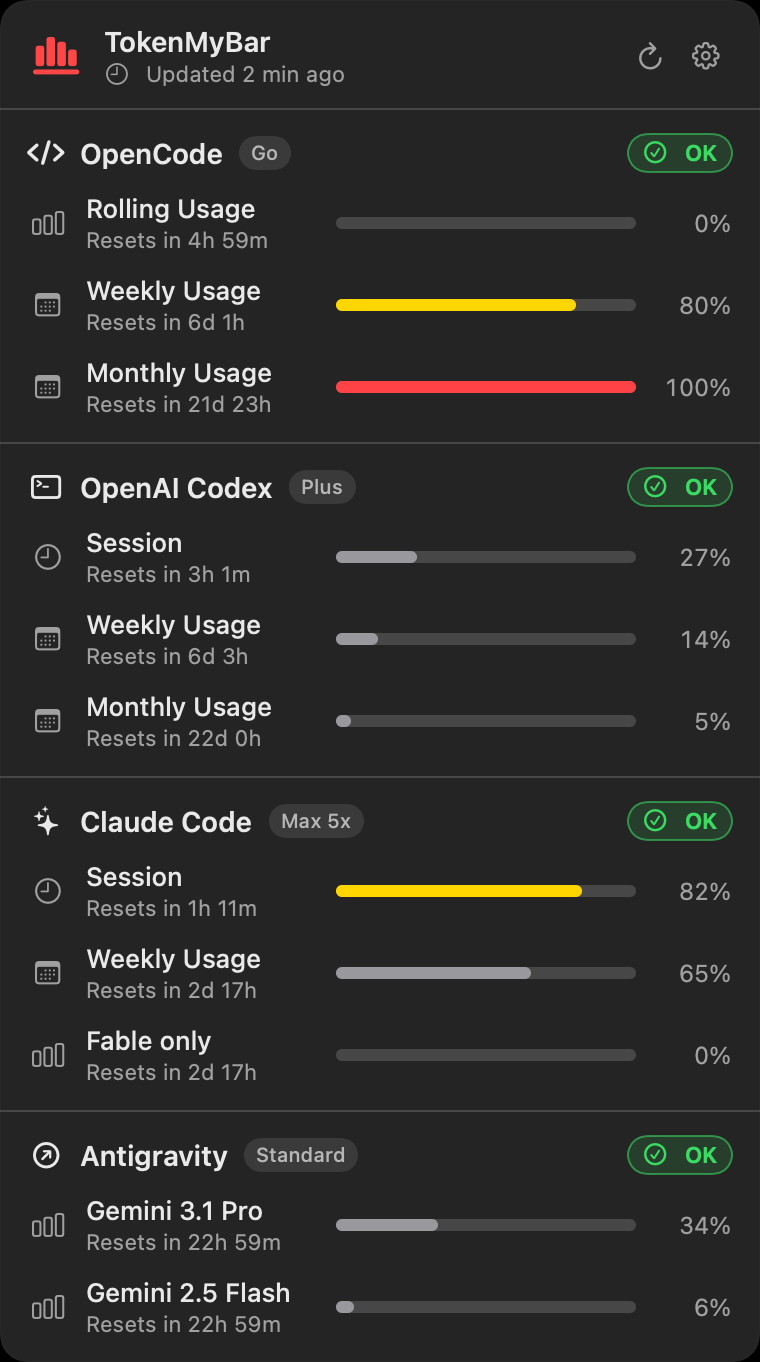
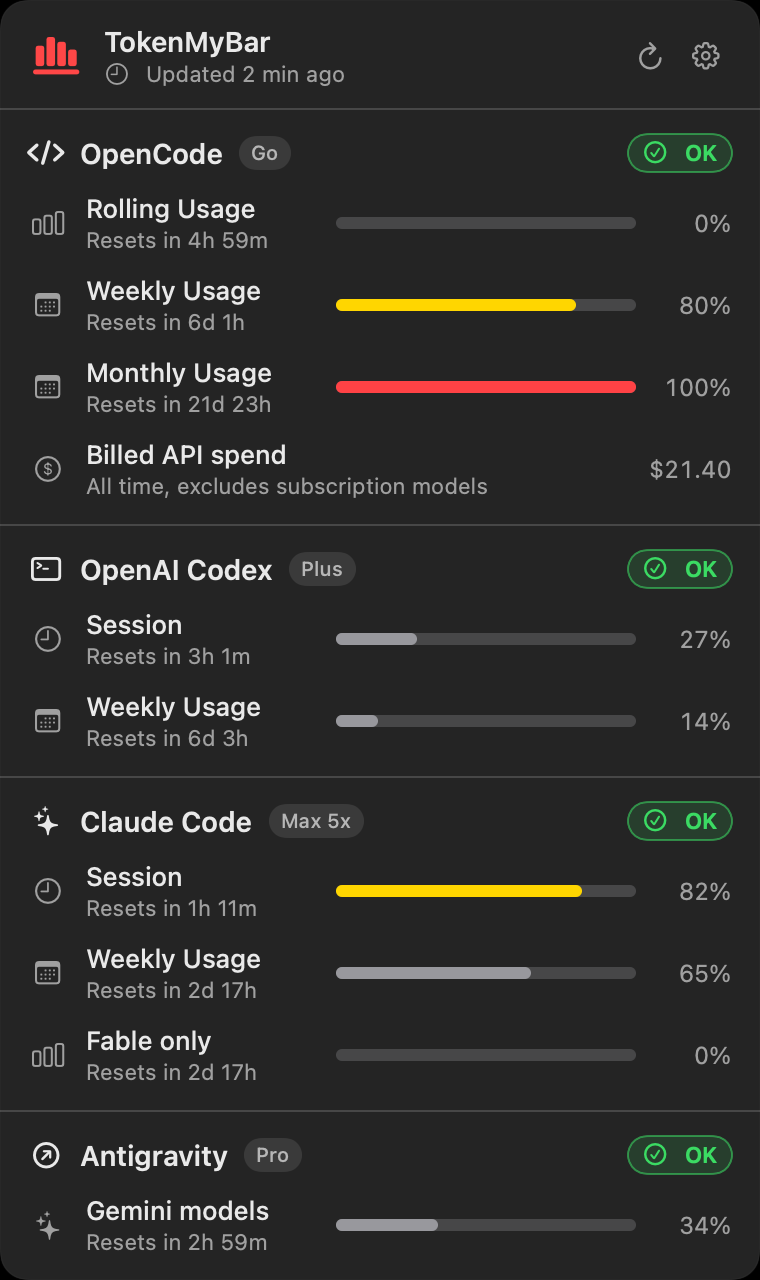
chore: name Antigravity in About, and regenerate the previews from the app
The About panel still described three vendors and the bundle's copyright still
read "coodyapp". Both now match the shipping product.

The landing page's menu bar mock and the README screenshot had drifted a release
behind: Claude appeared as "Pro" with a monthly window it does not report,
Antigravity as per-model rows on a "Standard" tier, and neither showed billed
spend. Both are regenerated from the app's own preview fixture, so what the site
promises is what the app draws — Claude "Max 5x" with its Fable cap, Codex's two
windows, Antigravity's grouped Gemini row on Pro, and OpenCode's spend.

Making that mock faithful surfaced a real display bug: a row carrying a figure
but no percentage drew an empty meter and squeezed its value into a 38pt column,
so "$21.40" rendered as "$21....". Such a row now takes the meter's width for its
value, in both the app and the mock.

diff --git a/apps/www/src/components/menubar-preview.tsx b/apps/www/src/components/menubar-preview.tsx
@@ -22,12 +22,15 @@ import { BorderTrail } from "@/components/core/border-trail"
 // 1pt = 1px: 380px popover, 14px padding, 150×6 bars, 38px percent column.
 
 type Row = {
-  // Antigravity reports one bucket per model instead of fixed windows, so its
-  // rows carry the app's `model-<id>` keys.
-  key: "session" | "weekly" | "monthly" | `model-${string}`
+  // Antigravity meters a whole model group rather than fixed windows, so its
+  // row carries the app's `gemini-group` key.
+  key: "session" | "weekly" | "monthly" | "spend" | "gemini-group"
   title: string
+  // A spend row has a figure but nothing to fill a bar with, so it shows neither
+  // a countdown nor a meter — exactly as PopoverView does.
   reset: string
-  percent: number
+  percent?: number
+  value?: string
 }
 
 type Vendor = { name: string; icon: LucideIcon; plan: string; rows: Row[] }
@@ -56,6 +59,12 @@ const VENDORS: Vendor[] = [
         reset: "Resets in 22d 20h",
         percent: 100,
       },
+      {
+        key: "spend",
+        title: "Billed API spend",
+        reset: "All time, excludes subscription models",
+        value: "$21.40",
+      },
     ],
   },
   {
@@ -75,18 +84,12 @@ const VENDORS: Vendor[] = [
         reset: "Resets in 6d 4h",
         percent: 14,
       },
-      {
-        key: "monthly",
-        title: "Monthly Usage",
-        reset: "Resets in 22d 21h",
-        percent: 5,
-      },
     ],
   },
   {
     name: "Claude Code",
     icon: Sparkles,
-    plan: "Pro",
+    plan: "Max 5x",
     rows: [
       {
         key: "session",
@@ -101,29 +104,23 @@ const VENDORS: Vendor[] = [
         percent: 65,
       },
       {
-        key: "monthly",
-        title: "Monthly Usage",
-        reset: "Resets in 18d 6h",
-        percent: 42,
+        key: "gemini-group",
+        title: "Fable only",
+        reset: "Resets in 2d 18h",
+        percent: 0,
       },
     ],
   },
   {
     name: "Antigravity",
     icon: CircleArrowOutUpRight,
-    plan: "Standard",
+    plan: "Pro",
     rows: [
       {
-        key: "model-gemini-3.1-pro",
-        title: "Gemini 3.1 Pro",
-        reset: "Resets in 23h 4m",
+        key: "gemini-group",
+        title: "Gemini models",
+        reset: "Gemini Flash and Pro share this limit",
         percent: 34,
-      },
-      {
-        key: "model-gemini-2.5-flash",
-        title: "Gemini 2.5 Flash",
-        reset: "Resets in 23h 4m",
-        percent: 6,
       },
     ],
   },
@@ -204,7 +201,10 @@ function UsageBar({
   delay: number
 }) {
   const Icon = metricIcon(row.key)
-  const target = filled ? row.percent : 0
+  const target = filled ? (row.percent ?? 0) : 0
+  // A row with a figure but no percentage — billed spend — gets the meter's
+  // width for its value instead of an empty bar, matching PopoverView.
+  const hasMeter = row.percent !== undefined
   return (
     <div className="flex items-center">
       <Icon
@@ -227,29 +227,31 @@ function UsageBar({
         </span>
       </div>
       <div className="min-w-3 flex-1" />
-      <div
-        role="progressbar"
-        aria-label={`${row.title} usage`}
-        aria-valuenow={row.percent}
-        aria-valuemin={0}
-        aria-valuemax={100}
-        className="h-[6px] w-[150px] shrink-0 overflow-hidden rounded-full"
-        style={{ backgroundColor: "rgba(152,152,157,0.3)" }}
-      >
+      {hasMeter && (
         <div
-          className="h-full rounded-full transition-[width] duration-700 ease-out motion-reduce:transition-none"
-          style={{
-            width: target > 0 ? `max(6px, ${target}%)` : "0px",
-            backgroundColor: fillColor(row.percent),
-            transitionDelay: `${delay}ms`,
-          }}
-        />
-      </div>
+          role="progressbar"
+          aria-label={`${row.title} usage`}
+          aria-valuenow={row.percent}
+          aria-valuemin={0}
+          aria-valuemax={100}
+          className="h-[6px] w-[150px] shrink-0 overflow-hidden rounded-full"
+          style={{ backgroundColor: "rgba(152,152,157,0.3)" }}
+        >
+          <div
+            className="h-full rounded-full transition-[width] duration-700 ease-out motion-reduce:transition-none"
+            style={{
+              width: target > 0 ? `max(6px, ${target}%)` : "0px",
+              backgroundColor: fillColor(row.percent ?? 0),
+              transitionDelay: `${delay}ms`,
+            }}
+          />
+        </div>
+      )}
       <span
-        className="w-[38px] pl-2.5 text-right text-[12px] tabular-nums"
+        className="min-w-[38px] pl-2.5 text-right text-[12px] tabular-nums"
         style={{ color: MAC.secondary }}
       >
-        <AnimatedPercent target={target} delay={delay} />
+        {hasMeter ? <AnimatedPercent target={target} delay={delay} /> : row.value}
       </span>
     </div>
   )

diff --git a/apps/menubar/Sources/TokenMyBar/PreviewSnapshot.swift b/apps/menubar/Sources/TokenMyBar/PreviewSnapshot.swift
@@ -115,6 +115,14 @@ enum PreviewSnapshot {
                     row("rolling", "Rolling Usage", 5 * 3600, 0),
                     row("weekly", "Weekly", 6 * 24 * 3600 + 2 * 3600, 80),
                     row("monthly", "Monthly", 22 * 24 * 3600, 100),
+                    UsageRow(
+                        key: "spend",
+                        title: "Billed API spend",
+                        subtitle: "All time, excludes subscription models",
+                        value: "$21.40",
+                        iconName: "dollarsign.circle",
+                        unit: .cost
+                    ),
                 ]
             ),
             ProviderSnapshot(
@@ -124,7 +132,6 @@ enum PreviewSnapshot {
                 usageRows: [
                     row("session", "Session", 3 * 3600 + 120, 27),
                     row("weekly", "Weekly", 6 * 24 * 3600 + 4 * 3600, 14),
-                    row("monthly", "Monthly", 22 * 24 * 3600 + 3600, 5),
                 ]
             ),
             ProviderSnapshot(
@@ -140,11 +147,19 @@ enum PreviewSnapshot {
             ProviderSnapshot(
                 providerID: .antigravity, status: .ok, usedTokens: nil,
                 unit: .requests, usagePercent: 34,
-                refreshedAt: now, primarySource: .oauth, confidence: .high, isEstimated: false,
-                planName: "Standard",
+                refreshedAt: now, primarySource: .localFile, confidence: .high, isEstimated: false,
+                planName: "Pro",
                 usageRows: [
-                    row("model-gemini-3.1-pro", "Gemini 3.1 Pro", 23 * 3600, 34),
-                    row("model-gemini-2.5-flash", "Gemini 2.5 Flash", 23 * 3600, 6),
+                    UsageRow(
+                        key: "gemini-group",
+                        title: "Gemini models",
+                        subtitle: "Gemini Flash and Pro share this limit",
+                        value: "34%",
+                        iconName: "sparkles",
+                        resetAt: Date().addingTimeInterval(3 * 3600),
+                        percent: 34,
+                        unit: .requests
+                    ),
                 ]
             ),
         ]

diff --git a/apps/menubar/Sources/TokenMyBar/PopoverView.swift b/apps/menubar/Sources/TokenMyBar/PopoverView.swift
@@ -401,13 +401,18 @@ private struct UsageRowView: View {
 
             Spacer(minLength: 12)
 
-            ProgressBar(percent: clampedPercent ?? 0, isStale: isStale)
-                .frame(width: 150, height: 6)
+            // A row with nothing to fill a bar — a spend figure, a window that has
+            // ended — gets the bar's width for its value instead of an empty meter
+            // beside a truncated number.
+            if let percent = clampedPercent {
+                ProgressBar(percent: percent, isStale: isStale)
+                    .frame(width: 150, height: 6)
+            }
 
             Text(percentText)
                 .font(.system(size: 12).monospacedDigit())
                 .foregroundStyle(.secondary)
-                .frame(width: 38, alignment: .trailing)
+                .frame(minWidth: 38, alignment: .trailing)
                 .padding(.leading, 10)
                 .lineLimit(1)
         }

diff --git a/apps/www/src/components/menubar-preview.test.tsx b/apps/www/src/components/menubar-preview.test.tsx
@@ -12,9 +12,13 @@ describe("MenubarPreview", () => {
     expect(screen.getByLabelText("Claude Code")).toBeInTheDocument()
     expect(screen.getByLabelText("Antigravity")).toBeInTheDocument()
 
-    // Three windows each for the first three vendors, one row per model for
-    // Antigravity.
-    expect(screen.getAllByRole("progressbar")).toHaveLength(11)
+    // OpenCode 3 windows, Codex 2, Claude 3, Antigravity 1 group — the billed
+    // spend row carries a figure but no meter, so it adds none.
+    expect(screen.getAllByRole("progressbar")).toHaveLength(9)
+    expect(screen.getByText("Billed API spend")).toBeInTheDocument()
+    expect(screen.getByText("$21.40")).toBeInTheDocument()
+    expect(screen.getByText("Gemini models")).toBeInTheDocument()
+    expect(screen.getByText("Max 5x")).toBeInTheDocument()
   })
 
   it("exposes a refresh control", () => {

diff --git a/apps/menubar/Sources/TokenMyBar/TokenMyBarApp.swift b/apps/menubar/Sources/TokenMyBar/TokenMyBarApp.swift
@@ -205,7 +205,12 @@ final class AppDelegate: NSObject, NSApplicationDelegate, NSMenuDelegate {
     private func aboutPanelOptions() -> [NSApplication.AboutPanelOptionKey: Any] {
         let version = Self.bundleVersion
         let credits = NSAttributedString(
-            string: "Live AI token usage for Codex, Claude Code, and OpenCode — right in your menu bar.",
+            string: """
+            Native macOS menu bar app that gives you real-time insight into token \
+            usage, reset windows, and plan limits across Claude Code, OpenAI Codex, \
+            OpenCode and Antigravity. Built with a privacy-first approach, it runs \
+            with zero telemetry.
+            """,
             attributes: [.font: NSFont.systemFont(ofSize: 11)]
         )
         return [

diff --git a/apps/menubar/Sources/TokenMyBarCore/OpenCodeLocalUsageProvider.swift b/apps/menubar/Sources/TokenMyBarCore/OpenCodeLocalUsageProvider.swift
@@ -252,7 +252,7 @@ extension OpenCodeLocalUsage {
             UsageRow(
                 key: "spend",
                 title: "Billed API spend",
-                subtitle: "All time — subscription models bill nothing and are excluded",
+                subtitle: "All time, excludes subscription models",
                 value: Format.money(costUSD),
                 iconName: "dollarsign.circle",
                 percent: nil,

diff --git a/CHANGELOG.md b/CHANGELOG.md
@@ -6,6 +6,20 @@ All notable changes to TokenMyBar are documented here. The format follows
 
 ## [Unreleased]
 
+## [1.5.0] - 2026-08-01
+
+### Changed
+
+- The About panel and the app's copyright line name Antigravity and read
+  "Copyright © 2026 coody".
+- The landing page's menu bar preview and the README screenshot are regenerated
+  from the shipping app, so both show what 1.4.0 actually renders: Claude's
+  "Max 5x" badge and its Fable cap, Codex's two windows, Antigravity's single
+  grouped Gemini row on the Pro plan, and OpenCode's billed spend.
+- A row that has a figure but nothing to fill a meter with — billed spend — no
+  longer draws an empty progress bar beside a truncated number; the value gets
+  the space instead.
+
 ## [1.4.0] - 2026-08-01
 
 ### Added
@@ -409,7 +423,8 @@ First stable release.
   cache files are `0600`. Keychain access is read-only behind the standard
   macOS consent prompt. All SQLite access uses parameterized queries.
 
-[Unreleased]: https://github.com/coodyapp/token-my-bar/compare/v1.4.0...HEAD
+[Unreleased]: https://github.com/coodyapp/token-my-bar/compare/v1.5.0...HEAD
+[1.5.0]: https://github.com/coodyapp/token-my-bar/compare/v1.4.0...v1.5.0
 [1.4.0]: https://github.com/coodyapp/token-my-bar/compare/v1.3.0...v1.4.0
 [1.3.0]: https://github.com/coodyapp/token-my-bar/compare/v1.2.0...v1.3.0
 [1.2.0]: https://github.com/coodyapp/token-my-bar/compare/v1.1.0...v1.2.0

diff --git a/CONTRIBUTING.md b/CONTRIBUTING.md
@@ -67,7 +67,8 @@ refactor(menubar): compact native popover layout + native header buttons
 ```
 
 Use a `type(scope): summary` subject — common types are `feat`, `fix`, and
-`refactor`; common scopes are `menubar`, `codex`, and `www`.
+`refactor`; common scopes are `menubar`, `core`, `www`, and a vendor name
+(`codex`, `claude`, `opencode`, `antigravity`).
 
 ## Pull Requests
 
